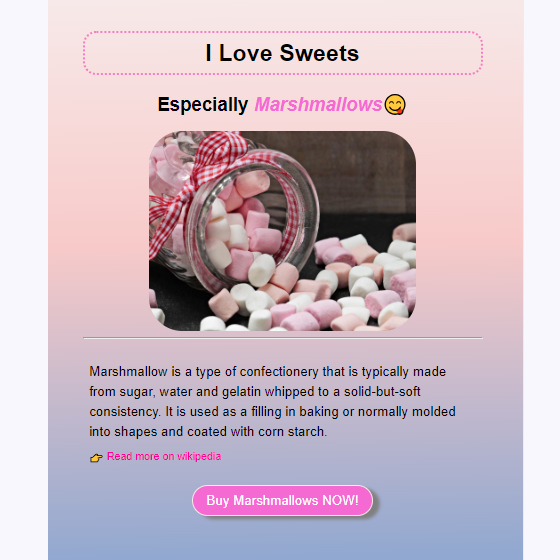
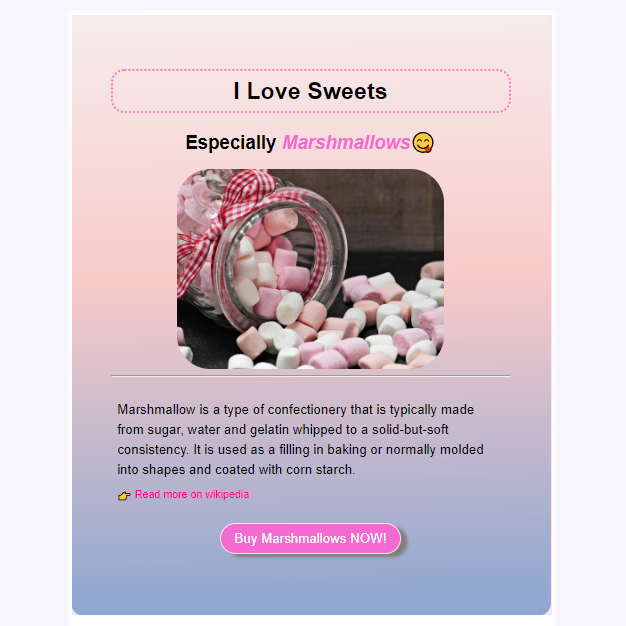
edited images and made homepage responsive!

diff --git a/index.html b/index.html
@@ -30,10 +30,10 @@
     <p class="text-center m-5">Featured Project which my best projects be choice to show</p>
     <div class="container">
         <div class="row">
-            <div class="col">
+            <div class="col-sm-6">
                 <img src="marshmallow.png" width="560px" alt="">
             </div>
-            <div class="col explanation">
+            <div class="col-sm-6 explanation">
                 <h2>Marshmallow Project</h2> <br>
                 <p>Far far away, behind the word mountains, far from the countries Vokalia and Consonantia, there live the blind texts.
                 Separated they live in Bookmarksgrove right at the coast of the Semantics, a large language ocean. A small river named
@@ -46,7 +46,7 @@
         <br>
         <br>
         <div class="row">
-            <div class="col explanation">
+            <div class="col-sm-6 explanation">
                 <h2>Weather App</h2> <br>
                 <p>Far far away, behind the word mountains, far from the countries Vokalia and Consonantia, there live the blind texts.
                 Separated they live in Bookmarksgrove right at the coast of the Semantics, a large language ocean. A small river named
@@ -54,7 +54,7 @@
                 <br>
                 <a href="#">View detail projetc</a>
             </div>
-            <div class="col">
+            <div class="col-sm-6">
                 <img src="weatherapp.png" width="560px" alt="">
             </div>
         </div>
@@ -62,10 +62,10 @@
         <br>
         <br>
         <div class="row">
-            <div class="col">
+            <div class="col-sm-6">
                 <img src="https://8xjze.codesandbox.io/images/dictionary.png" width="560px" alt="">
             </div>
-            <div class="col explanation">
+            <div class="col-sm-6 explanation">
                 <h2>dictionary App</h2> <br>
                 <p>Far far away, behind the word mountains, far from the countries Vokalia and Consonantia, there live the blind
                     texts.

diff --git a/styles/portfolio.css b/styles/portfolio.css
@@ -1,7 +1,7 @@
 :root {
     --heading-font-family: "Playfair Display", serif;
     --default-font-family: "Poppins", sans-serif;
-    --branding-color: #6c63ff;
+    --branding-color: #ab65b9;
     --secondary-color: #f9f7fe;
 }
 
@@ -88,4 +88,29 @@ p {
     color: black;
     transition-timing-function: ease-in-out;
     transition-duration: 0.2s;
+}
+
+@media (max-width: 570px) {
+    .hero {
+        padding: 130px 20px;
+    }
+    .hero h1 {
+        font-size: 60px;
+    }
+    .hero h2 {
+        font-size: 18px;
+    }
+    p {
+        text-align: center;
+    }
+
+    img {
+        display: none;
+    }
+    .container {
+        text-align: center;
+    }
+    .container h2 {
+        font-size: 30px;
+    }
 }
